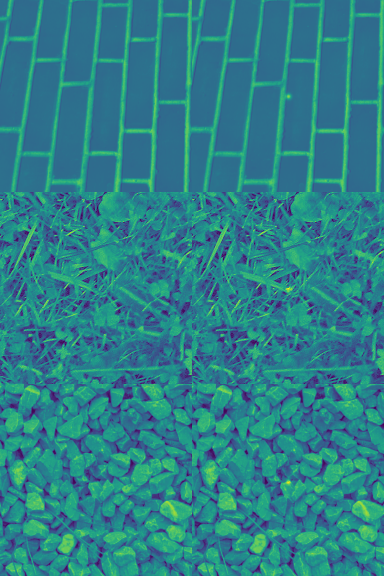
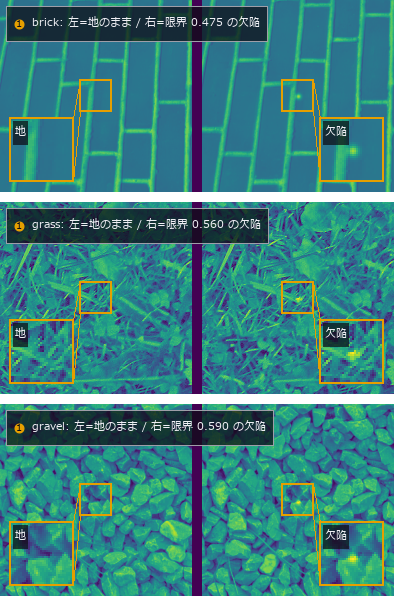
展示 117(実写の検出限界)+ 例の門に optional backend の宣言を足す
■ CI が赤くなった件の修正(先に)

前の commit で入れた「例を走らせる門」が、最初の CI で **py3.10 / py3.12 の
7 本**を落とした(py3.11 は緑)。CI は意図的に py3.11 だけ torch / kornia /
mahotas / opencv-contrib を入れる設計で、テスト側には `requires_backend` という
宣言の仕組みが**既にあった**のに、**新しい門にはそれが無かった** ——
仕組みがあることと、全経路が通っていることは別。

手元が緑だったのは、この機械に optional backend が全部入っているから。
「手元に在る依存が CI に無いと手元緑・CI 赤」の型をそのまま踏んだ。

内訳: `gallery2d_*` 5 本は「その族の op を全部動かす」契約なので backend が
1 つ欠けると op 名の直書きと合わず落ちる / `lens_design_demo` と
`representation_conversion` は torch を直に使う(`fit_zernike` /
`match_logpolar_z`)。門に宣言を足し、足りない環境では走らせずに skip、
完全環境(`FULLSEYE_REQUIRE_OPTIONAL=1`)では**失敗**にする ——
宣言の付け過ぎも付け忘れも両方向で落ちる。

■ 展示 117: poc_real_defect_floor(実写)

実写テクスチャ 3 種(CC0 の brick / grass / gravel)に**位置・大きさ・振幅が
既知**のガウシアン欠陥を仕込み、検出限界を測る。比較相手は**検出器が実際に見る
残差 σ を実写に揃えた**合成の地 —— 雑音の量を同じにしてから構造の効果だけを取る。

- ★★雑音を揃えても実写の限界は **2.03〜3.47 倍**高い。限界を決めているのは
  雑音ではなく**地の構造**。ノブ 18 通り全部(1.72〜4.56)、検出器 2 つ
  (整合フィルタ / `laplace_of_gauss`)で残る。
- ★予測を 3 回外した: (1)「欠陥が大きいほど差が開く」は**振幅の刻みが作った差**
  (34 段では別の格子点に丸まる。60 段で両方 3.30 倍) (2)「実写だから場所で変わる」は
  誤りで、brick 16.8 倍に対し grass 2.4 / gravel 3.3 は合成の 3.3 と区別がつかない
  (犯人は目地という**構造**) (3)「ゼロ点は何も見つけない」も誤りで、**当てるだけなら
  ゼロ点のほうが 0.65〜0.90 倍良い**。分かれるのは照明が 2 % ずれた瞬間で、ゼロ点は
  1 万画素あたり 10.3 回空振り・整合フィルタは 0.0 回。**物差しを 1 つにすると、
  役に立たない検出器を勝たせられる。**
- ★図を作り直した。最初の版は地と欠陥を並べただけで**欠陥がどこか読み手に
  分からなかった**(自分で開いて気づいた)。`annotate_legend` で素材名と限界値を
  背景板つきに、`annotate_inset` で同じ場所を 2 倍に拡大して隅へ差し込む。
  GIF は左右に実写と σ を揃えた合成を並べ、振幅を上げていく(尺度は固定)。
[…]

diff --git a/examples/poc_real_defect_floor.py b/examples/poc_real_defect_floor.py
@@ -301,28 +301,68 @@ def section_null(real):
 # --------------------------------------------------------------------------- #
 # 図
 # --------------------------------------------------------------------------- #
+GAP = 10          #: 左右・上下の仕切り[px]
+ZOOM_R = 16       #: 拡大して差し込む正方形の半辺[px]
+
+
+def _pair_rgb(left, right):
+    """2 枚を仕切りつきで横に並べ、**固定の尺度**で疑似カラーにする。
+
+    ★``colorize_depth`` は既定で 1 枚ずつ正規化する。``vmin``/``vmax`` を渡さないと、
+    コマごとに明るさが動いて「振幅を上げると見えてくる」という主張そのものが壊れる。
+    """
+    pair = np.concatenate([np.clip(left, 0.0, 1.0), np.zeros((N, GAP)),
+                           np.clip(right, 0.0, 1.0)], axis=1)
+    return np.asarray(fs.colorize_depth(pair, vmin=0.0, vmax=1.0),
+                      dtype=np.float64)[..., :3]
+
+
 def make_figures(real, table):
-    """限界の振幅で仕込んだ姿を並べ、振幅を上げていく GIF を書く。"""
-    tiles = []
+    """限界の振幅で仕込んだ姿を並べ、振幅を上げていく GIF を書く。
+
+    ★最初の版は地と欠陥をただ並べただけで、**仕込んだ欠陥がどこにあるか読み手に
+    分からなかった**(2026-09-09、書いたあと自分で開いて気づいた)。限界ちょうどの
+    欠陥は「言われれば見える」大きさなので、**位置を示して拡大しないと図が主張を
+    運ばない**。素材名と限界値は背景板つきの凡例に、地と欠陥の同じ場所は 2 倍に
+    拡大して隅へ差し込む(``annotate_inset`` は最近傍の整数倍 = 元の画素のまま)。
+    """
+    cx = cy = N // 2
+    rows = []
     for name, g in real.items():
         amp = table[name][1]
-        tiles.append(np.concatenate([g, g + blob(g.shape, N // 2, N // 2, amp)], axis=1))
-    figs.save("defect_floor_panels", np.concatenate(tiles, axis=0),
-              caption="左=地のまま、右=検出限界ちょうどの欠陥を中央に仕込んだところ"
-                      "(上から brick / grass / gravel)。"
-                      "限界の振幅は %s。"
+        rgb = _pair_rgb(g, g + blob(g.shape, cx, cy, amp))
+        rgb = np.asarray(fs.annotate_inset(rgb, (cx - ZOOM_R, cy - ZOOM_R,
+                                                 2 * ZOOM_R, 2 * ZOOM_R),
+                                           corner="lb", factor=2, label="地"),
+                         dtype=np.float64)
+        rgb = np.asarray(fs.annotate_inset(rgb, (N + GAP + cx - ZOOM_R, cy - ZOOM_R,
+                                                 2 * ZOOM_R, 2 * ZOOM_R),
+                                           corner="rb", factor=2, label="欠陥"),
+                         dtype=np.float64)
+        rgb = np.asarray(fs.annotate_legend(
+            rgb, ["%s: 左=地のまま / 右=限界 %.3f の欠陥" % (name, amp)],
+            (6, 6), anchor="lt", font_size=11, radius=5.0), dtype=np.float64)
+        rows += [rgb, np.ones((GAP, rgb.shape[1], 3))]
+    figs.save("defect_floor_panels", np.concatenate(rows[:-1], axis=0),
+              caption="左=地のまま、右=**検出限界ちょうど**の欠陥を中央に仕込んだところ"
+                      "(上から brick / grass / gravel)。隅の枠は同じ場所の 2 倍拡大 ——"
+                      "限界の振幅では、拡大して初めて見える。限界は %s。"
                       % " / ".join("%s %.3f" % (n, table[n][1]) for n in real))
-    frames, amps = [], np.round(np.geomspace(0.02, 1.2, 18), 4)
-    g = real["brick"]
-    syn = table["brick"][5]
+
+    amps = np.round(np.geomspace(0.02, 1.2, 18), 4)
+    g, syn = real["brick"], table["brick"][5]
+    frames = []
     for amp in amps:
-        frames.append(np.concatenate(
-            [g + blob(g.shape, N // 2, N // 2, amp),
-             syn + blob(syn.shape, N // 2, N // 2, amp)], axis=1))
+        rgb = _pair_rgb(g + blob(g.shape, cx, cy, amp),
+                        syn + blob(syn.shape, cx, cy, amp))
+        rgb = np.asarray(fs.annotate_legend(
+            rgb, ["左=実写 brick / 右=残差 σ を揃えた合成", "振幅 %.3f" % amp],
+            (6, 6), anchor="lt", font_size=11, radius=5.0), dtype=np.float64)
+        frames.append((np.clip(rgb, 0.0, 1.0) * 255).astype(np.uint8))
     figs.save_gif("defect_floor_sweep", frames, fps=6,
-                  caption="同じ欠陥を、振幅 %.2f から %.2f まで上げていく。"
-                          "左=実写の brick、右=**残差 σ を揃えた**合成の地。"
-                          "雑音の量は同じなのに、右のほうが先に見えてくる。"
+                  caption="同じ欠陥を振幅 %.2f から %.2f まで上げていく。左=実写の brick、"
+                          "右=**残差 σ を揃えた**合成の地。雑音の量は同じなのに、"
+                          "右のほうが先に見えてくる。"
                           % (amps[0], amps[-1]))
     return len(frames)
 

diff --git a/docs/articles/exhibits/wingpoc.ja.md b/docs/articles/exhibits/wingpoc.ja.md
@@ -428,9 +428,9 @@ py -3.11 examples/poc_thermal_radiometry.py
 
 *↑ **薄い欠陥はどこまで見えるか —— 実写の地に真値を仕込んで検出限界を測る** ―― 「うちのラインでどこまで薄い傷が見えるか」を見積もるとき、いちばん普通のやり方は**平らな地に白色雑音を載せた合成画像**で限界を測ることだ。その見積もりがどれだけ甘いかを、真値を厳密に持ったまま実写で測る。地は CC0 の実写テクスチャ 3 種(brick / grass / gravel)、仕込むのは**位置・大きさ・振幅が既知のガウシアン欠陥**。比較相手は **検出器が実際に見る残差 σ を実写に揃えた**合成の地 —— 「雑音の量」を同じにしてから、構造の効果だけを取り出す。判定は「仕込んだ位置が応答の最大点になる最小の振幅」で、閾値を使わないので op 側の正規化に左右されない。★★**雑音を揃えても実写の限界は 2.03〜3.47 倍高い**。限界を決めているのは雑音ではなく**地の構造**だった。背景窓 3 通り × 欠陥 σ 2 通り × 地 3 種の **18 通り全部**で比は 1 を超え(1.72〜4.56)、整合フィルタと `laplace_of_gauss` という独立な 2 つの検出器でも残る。★**予測を外した**: 「欠陥が大きいほど差が開く」と書こうとしたが、それは**振幅の刻みが作った差**だった —— 34 段では σ=1.5 と σ=3.0 が別の格子点に丸まって差が見えるが、60 段にすると両方 3.30 倍で消える。刻みもノブである。★★**「実写だから場所で変わる」も誤り**。場所による限界の散らばりは brick が 16.8 倍と突出する一方、grass 2.4 倍・gravel 3.3 倍は**σ を揃えた合成の 3.3 倍と区別がつかない**。散らばりを生むのは「実写であること」ではなく**目地という構造**。★★そして**ゼロ点**(背景を引かず、生の画素の最大点を取るだけ)が、**「当てる」という 1 つの物差しでは整合フィルタに勝つ**(0.65〜0.90 倍で先に当てる。整合フィルタは地の構造も一緒に増幅するので損をする)。無欠陥面での空振りも brick では 0 対 0 の引き分けだった。分かれるのは**照明が 2 % ずれた瞬間**で、ゼロ点は 1 万画素あたり 10.3 回鳴り、整合フィルタは 0.0 回のまま —— 生の画素の閾値は明るさの絶対値だからだ。**当てる力・空振り・ずれへの強さを別々に数えないと、役に立たない検出器を勝たせられる。***
 
-[![同じ欠陥を、振幅 0.02 から 1.20 まで上げていく。左=実写の brick、右=**残差 σ を揃えた**合成の地。雑音の量は同じなのに、右のほうが先に見えてくる。](https://raw.githubusercontent.com/furuse-kazufumi/fullseye/master/docs/articles/assets/poc/poc_real_defect_floor/02_defect_floor_sweep.gif)](https://raw.githubusercontent.com/furuse-kazufumi/fullseye/master/docs/articles/assets/poc/poc_real_defect_floor/02_defect_floor_sweep.gif)
+[![同じ欠陥を振幅 0.02 から 1.20 まで上げていく。左=実写の brick、右=**残差 σ を揃えた**合成の地。雑音の量は同じなのに、右のほうが先に見えてくる。](https://raw.githubusercontent.com/furuse-kazufumi/fullseye/master/docs/articles/assets/poc/poc_real_defect_floor/02_defect_floor_sweep.gif)](https://raw.githubusercontent.com/furuse-kazufumi/fullseye/master/docs/articles/assets/poc/poc_real_defect_floor/02_defect_floor_sweep.gif)
 
-*↑ 測定の図 ―― 同じ欠陥を、振幅 0.02 から 1.20 まで上げていく。左=実写の brick、右=**残差 σ を揃えた**合成の地。雑音の量は同じなのに、右のほうが先に見えてくる。*
+*↑ 測定の図 ―― 同じ欠陥を振幅 0.02 から 1.20 まで上げていく。左=実写の brick、右=**残差 σ を揃えた**合成の地。雑音の量は同じなのに、右のほうが先に見えてくる。*
 
 ```
 py -3.11 examples/poc_real_defect_floor.py
@@ -438,7 +438,7 @@ py -3.11 examples/poc_real_defect_floor.py
 
 ソース: [examples/poc_real_defect_floor.py](https://github.com/furuse-kazufumi/fullseye/blob/master/examples/poc_real_defect_floor.py)
 
-使用 op(ノートへ): [`laplace_of_gauss`](https://furuse.work/ops/2d/edges/laplace_of_gauss.html) · [`reflect`](https://furuse.work/ops/3d/optics/reflect.html)
+使用 op(ノートへ): [`annotate_inset`](https://furuse.work/ops/annotate/paper/annotate_inset.html) · [`annotate_legend`](https://furuse.work/ops/annotate/paper/annotate_legend.html) · [`laplace_of_gauss`](https://furuse.work/ops/2d/edges/laplace_of_gauss.html) · [`reflect`](https://furuse.work/ops/3d/optics/reflect.html)
 
 ### 寸法・形状計測ウィング ―― 偏りと散らばりは別々に持つ
 

diff --git a/docs/articles/fullseye_poc_museum_qiita_ja.md b/docs/articles/fullseye_poc_museum_qiita_ja.md
@@ -481,9 +481,9 @@ py -3.11 examples/poc_thermal_radiometry.py
 
 *↑ **薄い欠陥はどこまで見えるか —— 実写の地に真値を仕込んで検出限界を測る** ―― 「うちのラインでどこまで薄い傷が見えるか」を見積もるとき、いちばん普通のやり方は**平らな地に白色雑音を載せた合成画像**で限界を測ることだ。その見積もりがどれだけ甘いかを、真値を厳密に持ったまま実写で測る。地は CC0 の実写テクスチャ 3 種(brick / grass / gravel)、仕込むのは**位置・大きさ・振幅が既知のガウシアン欠陥**。比較相手は **検出器が実際に見る残差 σ を実写に揃えた**合成の地 —— 「雑音の量」を同じにしてから、構造の効果だけを取り出す。判定は「仕込んだ位置が応答の最大点になる最小の振幅」で、閾値を使わないので op 側の正規化に左右されない。★★**雑音を揃えても実写の限界は 2.03〜3.47 倍高い**。限界を決めているのは雑音ではなく**地の構造**だった。背景窓 3 通り × 欠陥 σ 2 通り × 地 3 種の **18 通り全部**で比は 1 を超え(1.72〜4.56)、整合フィルタと `laplace_of_gauss` という独立な 2 つの検出器でも残る。★**予測を外した**: 「欠陥が大きいほど差が開く」と書こうとしたが、それは**振幅の刻みが作った差**だった —— 34 段では σ=1.5 と σ=3.0 が別の格子点に丸まって差が見えるが、60 段にすると両方 3.30 倍で消える。刻みもノブである。★★**「実写だから場所で変わる」も誤り**。場所による限界の散らばりは brick が 16.8 倍と突出する一方、grass 2.4 倍・gravel 3.3 倍は**σ を揃えた合成の 3.3 倍と区別がつかない**。散らばりを生むのは「実写であること」ではなく**目地という構造**。★★そして**ゼロ点**(背景を引かず、生の画素の最大点を取るだけ)が、**「当てる」という 1 つの物差しでは整合フィルタに勝つ**(0.65〜0.90 倍で先に当てる。整合フィルタは地の構造も一緒に増幅するので損をする)。無欠陥面での空振りも brick では 0 対 0 の引き分けだった。分かれるのは**照明が 2 % ずれた瞬間**で、ゼロ点は 1 万画素あたり 10.3 回鳴り、整合フィルタは 0.0 回のまま —— 生の画素の閾値は明るさの絶対値だからだ。**当てる力・空振り・ずれへの強さを別々に数えないと、役に立たない検出器を勝たせられる。***
 
-[![同じ欠陥を、振幅 0.02 から 1.20 まで上げていく。左=実写の brick、右=**残差 σ を揃えた**合成の地。雑音の量は同じなのに、右のほうが先に見えてくる。](https://raw.githubusercontent.com/furuse-kazufumi/fullseye/master/docs/articles/assets/poc/poc_real_defect_floor/02_defect_floor_sweep.gif)](https://raw.githubusercontent.com/furuse-kazufumi/fullseye/master/docs/articles/assets/poc/poc_real_defect_floor/02_defect_floor_sweep.gif)
+[![同じ欠陥を振幅 0.02 から 1.20 まで上げていく。左=実写の brick、右=**残差 σ を揃えた**合成の地。雑音の量は同じなのに、右のほうが先に見えてくる。](https://raw.githubusercontent.com/furuse-kazufumi/fullseye/master/docs/articles/assets/poc/poc_real_defect_floor/02_defect_floor_sweep.gif)](https://raw.githubusercontent.com/furuse-kazufumi/fullseye/master/docs/articles/assets/poc/poc_real_defect_floor/02_defect_floor_sweep.gif)
 
-*↑ 測定の図 ―― 同じ欠陥を、振幅 0.02 から 1.20 まで上げていく。左=実写の brick、右=**残差 σ を揃えた**合成の地。雑音の量は同じなのに、右のほうが先に見えてくる。*
+*↑ 測定の図 ―― 同じ欠陥を振幅 0.02 から 1.20 まで上げていく。左=実写の brick、右=**残差 σ を揃えた**合成の地。雑音の量は同じなのに、右のほうが先に見えてくる。*
 
 ```
 py -3.11 examples/poc_real_defect_floor.py
@@ -491,7 +491,7 @@ py -3.11 examples/poc_real_defect_floor.py
 
 ソース: [examples/poc_real_defect_floor.py](https://github.com/furuse-kazufumi/fullseye/blob/master/examples/poc_real_defect_floor.py)
 
-使用 op(ノートへ): [`laplace_of_gauss`](https://furuse.work/ops/2d/edges/laplace_of_gauss.html) · [`reflect`](https://furuse.work/ops/3d/optics/reflect.html)
+使用 op(ノートへ): [`annotate_inset`](https://furuse.work/ops/annotate/paper/annotate_inset.html) · [`annotate_legend`](https://furuse.work/ops/annotate/paper/annotate_legend.html) · [`laplace_of_gauss`](https://furuse.work/ops/2d/edges/laplace_of_gauss.html) · [`reflect`](https://furuse.work/ops/3d/optics/reflect.html)
 
 ### 寸法・形状計測ウィング ―― 偏りと散らばりは別々に持つ
 

diff --git a/docs/articles/exhibits/wingpoc.en.md b/docs/articles/exhibits/wingpoc.en.md
@@ -428,9 +428,9 @@ Ops used (notes): [`beer_lambert_transmittance`](https://furuse.work/ops/optics/
 
 *↑ **How Faint a Defect Can Still Be Found — Planting a Known Truth in a Real Background** ―― The usual way to estimate "how faint a defect can we still catch" is to measure the limit on a synthetic image: a flat field plus white noise. This exhibit measures how optimistic that estimate is, while keeping an exact ground truth. The backgrounds are three CC0 photographs (brick / grass / gravel); what is planted into them is a Gaussian defect of known position, width and amplitude. The control is a synthetic field whose **residual sigma — the variation the detector actually sees — is matched to the real one**, so the amount of noise is equal and only structure differs. The verdict is the smallest amplitude at which the planted position becomes the peak of the response; no threshold is involved, so per-image normalisation inside an operator cannot skew it. **Matching the noise is not enough: the real backgrounds raise the floor by 2.03x to 3.47x.** What sets the floor is structure, not noise. The gap survives all 18 knob settings (three background windows x two defect sizes x three grounds, 1.72x-4.56x) and both detectors — a matched filter and fullseye's `laplace_of_gauss`. **A prediction that failed:** "the gap widens for larger defects" turned out to be an artefact of the amplitude grid — on 34 steps the two sizes round to different grid points, on 60 steps both land at 3.30x. The grid is a knob too. **"Real data is position-dependent" is also wrong:** the spread of the floor across positions is 16.8x on brick but 2.4x on grass and 3.3x on gravel, indistinguishable from the 3.3x of the matched synthetic control. What creates the spread is the mortar lattice — a structure — not the fact that the image is a photograph. **And the null model wins on a single metric.** Taking the brightest raw pixel, with no background removed, localises the defect at 0.65x-0.90x the amplitude the matched filter needs, because the matched filter amplifies the background's structure too; false alarms on a defect-free surface tie at 0 on brick. The two separate the moment the lamp drifts by 2 %: the null model fires 10.3 times per 10,000 pixels while the matched filter stays at 0.0, because a raw-pixel threshold is an absolute brightness. **Count localisation, false alarms and drift separately, or a useless detector can be made to win.***
 
-[![同じ欠陥を、振幅 0.02 から 1.20 まで上げていく。左=実写の brick、右=**残差 σ を揃えた**合成の地。雑音の量は同じなのに、右のほうが先に見えてくる。](https://raw.githubusercontent.com/furuse-kazufumi/fullseye/master/docs/articles/assets/poc/poc_real_defect_floor/02_defect_floor_sweep.gif)](https://raw.githubusercontent.com/furuse-kazufumi/fullseye/master/docs/articles/assets/poc/poc_real_defect_floor/02_defect_floor_sweep.gif)
+[![同じ欠陥を振幅 0.02 から 1.20 まで上げていく。左=実写の brick、右=**残差 σ を揃えた**合成の地。雑音の量は同じなのに、右のほうが先に見えてくる。](https://raw.githubusercontent.com/furuse-kazufumi/fullseye/master/docs/articles/assets/poc/poc_real_defect_floor/02_defect_floor_sweep.gif)](https://raw.githubusercontent.com/furuse-kazufumi/fullseye/master/docs/articles/assets/poc/poc_real_defect_floor/02_defect_floor_sweep.gif)
 
-*↑ The measurement ―― 同じ欠陥を、振幅 0.02 から 1.20 まで上げていく。左=実写の brick、右=**残差 σ を揃えた**合成の地。雑音の量は同じなのに、右のほうが先に見えてくる。 (figure labels are in Japanese; the numbers are the same)*
+*↑ The measurement ―― 同じ欠陥を振幅 0.02 から 1.20 まで上げていく。左=実写の brick、右=**残差 σ を揃えた**合成の地。雑音の量は同じなのに、右のほうが先に見えてくる。 (figure labels are in Japanese; the numbers are the same)*
 
 ```
 py -3.11 examples/poc_real_defect_floor.py
@@ -438,7 +438,7 @@ py -3.11 examples/poc_real_defect_floor.py
 
 Source: [examples/poc_real_defect_floor.py](https://github.com/furuse-kazufumi/fullseye/blob/master/examples/poc_real_defect_floor.py)
 
-Ops used (notes): [`laplace_of_gauss`](https://furuse.work/ops/2d/edges/laplace_of_gauss.html) · [`reflect`](https://furuse.work/ops/3d/optics/reflect.html)
+Ops used (notes): [`annotate_inset`](https://furuse.work/ops/annotate/paper/annotate_inset.html) · [`annotate_legend`](https://furuse.work/ops/annotate/paper/annotate_legend.html) · [`laplace_of_gauss`](https://furuse.work/ops/2d/edges/laplace_of_gauss.html) · [`reflect`](https://furuse.work/ops/3d/optics/reflect.html)
 
 ### The Dimensional and Shape Metrology Wing — Keep Bias and Scatter Apart
 

diff --git a/docs/articles/fullseye_poc_museum_qiita_en.md b/docs/articles/fullseye_poc_museum_qiita_en.md
@@ -481,9 +481,9 @@ Ops used (notes): [`beer_lambert_transmittance`](https://furuse.work/ops/optics/
 
 *↑ **How Faint a Defect Can Still Be Found — Planting a Known Truth in a Real Background** ―― The usual way to estimate "how faint a defect can we still catch" is to measure the limit on a synthetic image: a flat field plus white noise. This exhibit measures how optimistic that estimate is, while keeping an exact ground truth. The backgrounds are three CC0 photographs (brick / grass / gravel); what is planted into them is a Gaussian defect of known position, width and amplitude. The control is a synthetic field whose **residual sigma — the variation the detector actually sees — is matched to the real one**, so the amount of noise is equal and only structure differs. The verdict is the smallest amplitude at which the planted position becomes the peak of the response; no threshold is involved, so per-image normalisation inside an operator cannot skew it. **Matching the noise is not enough: the real backgrounds raise the floor by 2.03x to 3.47x.** What sets the floor is structure, not noise. The gap survives all 18 knob settings (three background windows x two defect sizes x three grounds, 1.72x-4.56x) and both detectors — a matched filter and fullseye's `laplace_of_gauss`. **A prediction that failed:** "the gap widens for larger defects" turned out to be an artefact of the amplitude grid — on 34 steps the two sizes round to different grid points, on 60 steps both land at 3.30x. The grid is a knob too. **"Real data is position-dependent" is also wrong:** the spread of the floor across positions is 16.8x on brick but 2.4x on grass and 3.3x on gravel, indistinguishable from the 3.3x of the matched synthetic control. What creates the spread is the mortar lattice — a structure — not the fact that the image is a photograph. **And the null model wins on a single metric.** Taking the brightest raw pixel, with no background removed, localises the defect at 0.65x-0.90x the amplitude the matched filter needs, because the matched filter amplifies the background's structure too; false alarms on a defect-free surface tie at 0 on brick. The two separate the moment the lamp drifts by 2 %: the null model fires 10.3 times per 10,000 pixels while the matched filter stays at 0.0, because a raw-pixel threshold is an absolute brightness. **Count localisation, false alarms and drift separately, or a useless detector can be made to win.***
 
-[![同じ欠陥を、振幅 0.02 から 1.20 まで上げていく。左=実写の brick、右=**残差 σ を揃えた**合成の地。雑音の量は同じなのに、右のほうが先に見えてくる。](https://raw.githubusercontent.com/furuse-kazufumi/fullseye/master/docs/articles/assets/poc/poc_real_defect_floor/02_defect_floor_sweep.gif)](https://raw.githubusercontent.com/furuse-kazufumi/fullseye/master/docs/articles/assets/poc/poc_real_defect_floor/02_defect_floor_sweep.gif)
+[![同じ欠陥を振幅 0.02 から 1.20 まで上げていく。左=実写の brick、右=**残差 σ を揃えた**合成の地。雑音の量は同じなのに、右のほうが先に見えてくる。](https://raw.githubusercontent.com/furuse-kazufumi/fullseye/master/docs/articles/assets/poc/poc_real_defect_floor/02_defect_floor_sweep.gif)](https://raw.githubusercontent.com/furuse-kazufumi/fullseye/master/docs/articles/assets/poc/poc_real_defect_floor/02_defect_floor_sweep.gif)
 
-*↑ The measurement ―― 同じ欠陥を、振幅 0.02 から 1.20 まで上げていく。左=実写の brick、右=**残差 σ を揃えた**合成の地。雑音の量は同じなのに、右のほうが先に見えてくる。 (figure labels are in Japanese; the numbers are the same)*
+*↑ The measurement ―― 同じ欠陥を振幅 0.02 から 1.20 まで上げていく。左=実写の brick、右=**残差 σ を揃えた**合成の地。雑音の量は同じなのに、右のほうが先に見えてくる。 (figure labels are in Japanese; the numbers are the same)*
 
 ```
 py -3.11 examples/poc_real_defect_floor.py
@@ -491,7 +491,7 @@ py -3.11 examples/poc_real_defect_floor.py
 
 Source: [examples/poc_real_defect_floor.py](https://github.com/furuse-kazufumi/fullseye/blob/master/examples/poc_real_defect_floor.py)
 
-Ops used (notes): [`laplace_of_gauss`](https://furuse.work/ops/2d/edges/laplace_of_gauss.html) · [`reflect`](https://furuse.work/ops/3d/optics/reflect.html)
+Ops used (notes): [`annotate_inset`](https://furuse.work/ops/annotate/paper/annotate_inset.html) · [`annotate_legend`](https://furuse.work/ops/annotate/paper/annotate_legend.html) · [`laplace_of_gauss`](https://furuse.work/ops/2d/edges/laplace_of_gauss.html) · [`reflect`](https://furuse.work/ops/3d/optics/reflect.html)
 
 ### The Dimensional and Shape Metrology Wing — Keep Bias and Scatter Apart
 

diff --git a/docs/SESSION_SUMMARY.md b/docs/SESSION_SUMMARY.md
@@ -3,13 +3,14 @@
 > 自動生成: `libexec/raptor-auto-summary` (Stop hook)
 > 次回 ccr 起動時に CLAUDE.md SESSION START で自動的に読み取られる。
 
-- **最終更新**: 2026-09-09 11:02:22
+- **最終更新**: 2026-09-09 11:30:08
 - **プロジェクト**: `C:/dev/projects/imgevolve`
 - **ブランチ**: `master`
 
 ## 直近の git log
 
 ```
+be9b499f0 auto: poc_real_defect_floor.py 編集前 (2026-09-09 11:26)
 26a29f10c auto: test_example_scripts_run.py 編集前 (2026-09-09 10:19)
 ea8870025 auto: test_example_scripts_run.py 編集前 (2026-09-09 10:19)
 d60111c94 auto: test_example_scripts_run.py 編集前 (2026-09-09 10:19)
@@ -19,44 +20,40 @@ d60111c94 auto: test_example_scripts_run.py 編集前 (2026-09-09 10:19)
 4a974f360 auto: poc_real_defect_floor.py 編集前 (2026-09-09 09:57)
 460b573d7 auto: poc_real_defect_floor.py 編集前 (2026-09-09 09:56)
 edc4b41ec auto: poc_real_defect_floor.py 編集前 (2026-09-09 09:56)
-0aa3ad5ab auto: poc_real_defect_floor.py 編集前 (2026-09-09 09:55)
 ```
 
 ## 現在の git status
 
 ```
-M CHANGELOG.md
- M docs/OP_CATALOG.md
- M docs/SESSION_SUMMARY.md
- M docs/ops/2d/edges/laplace_of_gauss.md
- M fullseye/OP_CATALOG.md
- M studio_assets/op_help/laplace_of_gauss.de.html
- M studio_assets/op_help/laplace_of_gauss.en.html
- M studio_assets/op_help/laplace_of_gauss.html
- M studio_assets/op_help/laplace_of_gauss.ko.html
- M studio_assets/op_help/laplace_of_gauss.tw.html
- M studio_assets/op_help/laplace_of_gauss.zh.html
- M tests/test_example_scripts_run.py
+M docs/articles/assets/poc/poc_real_defect_floor/01_defect_floor_panels.png
+ M docs/articles/assets/poc/poc_real_defect_floor/01_defect_floor_panels_720.jpg
+ M docs/articles/assets/poc/poc_real_defect_floor/02_defect_floor_sweep.gif
+ M docs/articles/assets/poc/poc_real_defect_floor/figures.json
+ M docs/articles/exhibits/wingpoc.en.md
+ M docs/articles/exhibits/wingpoc.ja.md
+ M docs/articles/fullseye_poc_museum_qiita_en.md
+ M docs/articles/fullseye_poc_museum_qiita_ja.md
+ M examples/poc_real_defect_floor.py
 ```
 
 ## 直近 2 時間に変更されたファイル
 
 ```
-10:54 .pytest_cache/v/cache/nodeids
+11:27 docs/articles/fullseye_poc_museum_qiita_en.md
+11:27 docs/articles/exhibits/wingpoc.en.md
+11:27 docs/articles/fullseye_poc_museum_qiita_ja.md
+11:27 docs/articles/exhibits/wingpoc.ja.md
+11:27 docs/articles/assets/poc/poc_real_defect_floor/01_defect_floor_panels_720.jpg
+11:27 docs/articles/assets/poc/poc_real_defect_floor/figures.json
+11:27 docs/articles/assets/poc/poc_real_defect_floor/02_defect_floor_sweep.gif
+11:27 docs/articles/assets/poc/poc_real_defect_floor/01_defect_floor_panels.png
+11:26 .ruff_cache/0.16.0/13906884550158051618
+11:26 examples/poc_real_defect_floor.py
+11:25 .pytest_cache/v/cache/nodeids
+11:07 data/auto_functional_gate.json
+11:02 docs/SESSION_SUMMARY.md
 10:54 .pytest_cache/v/cache/lastfailed
 10:53 fullseye/OP_CATALOG.md
-10:53 docs/OP_CATALOG.md
-10:53 studio_assets/op_help/fig/zoom_region.png
-10:53 studio_assets/op_help/fig/zoom_image_size.png
-10:53 studio_assets/op_help/fig/zoom_image_factor.png
-10:53 studio_assets/op_help/fig/zero_crossing_sub_pix.png
-10:53 studio_assets/op_help/fig/zero_crossing.png
-10:53 studio_assets/op_help/fig/xwt_visushrink.png
-10:53 studio_assets/op_help/fig/xwt_subband_tile.png
-10:53 studio_assets/op_help/fig/xwt_packet_entropy.png
-10:53 studio_assets/op_help/fig/xwt_mra_component.png
-10:53 studio_assets/op_help/fig/xwt_lf_reconstruct.png
-10:53 studio_assets/op_help/fig/xwt_hf_reconstruct.png
 ```
 
 ---
